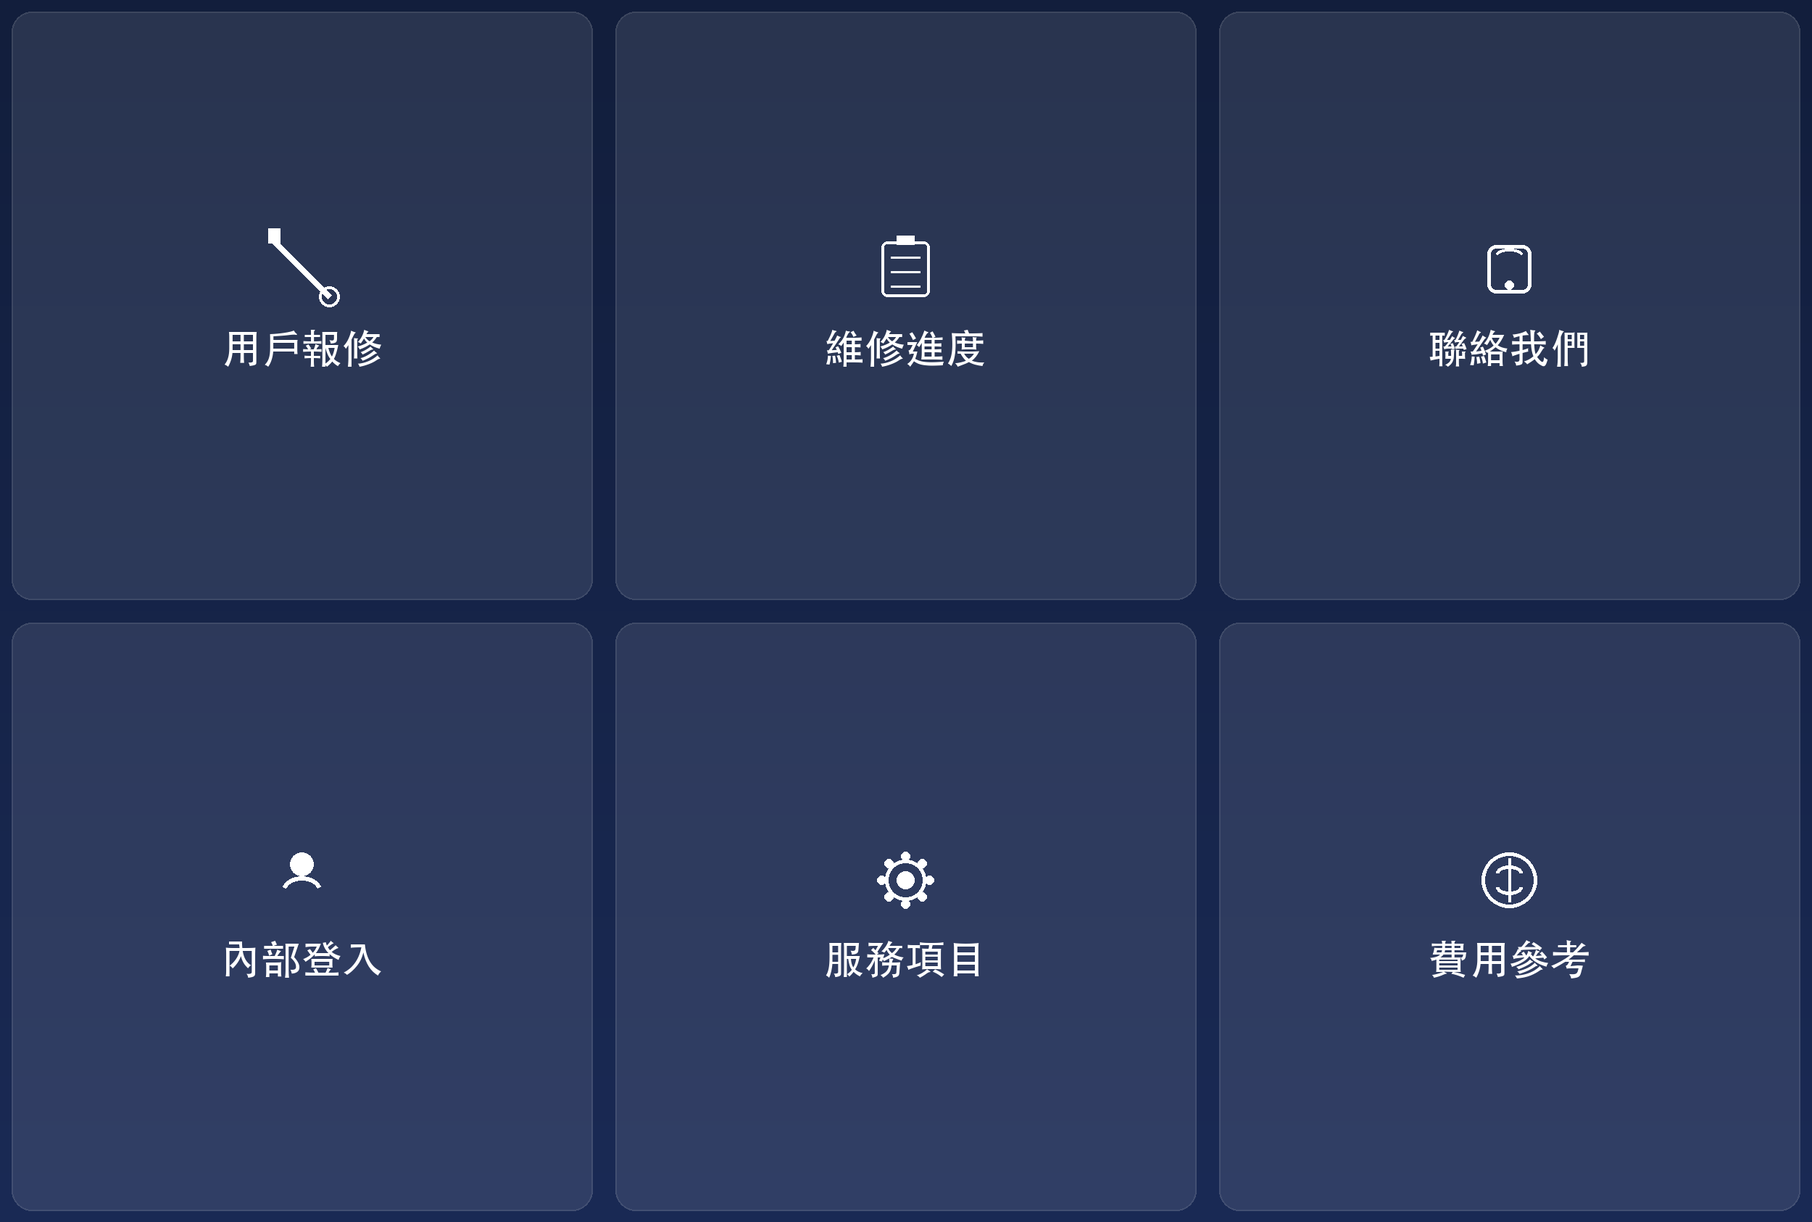
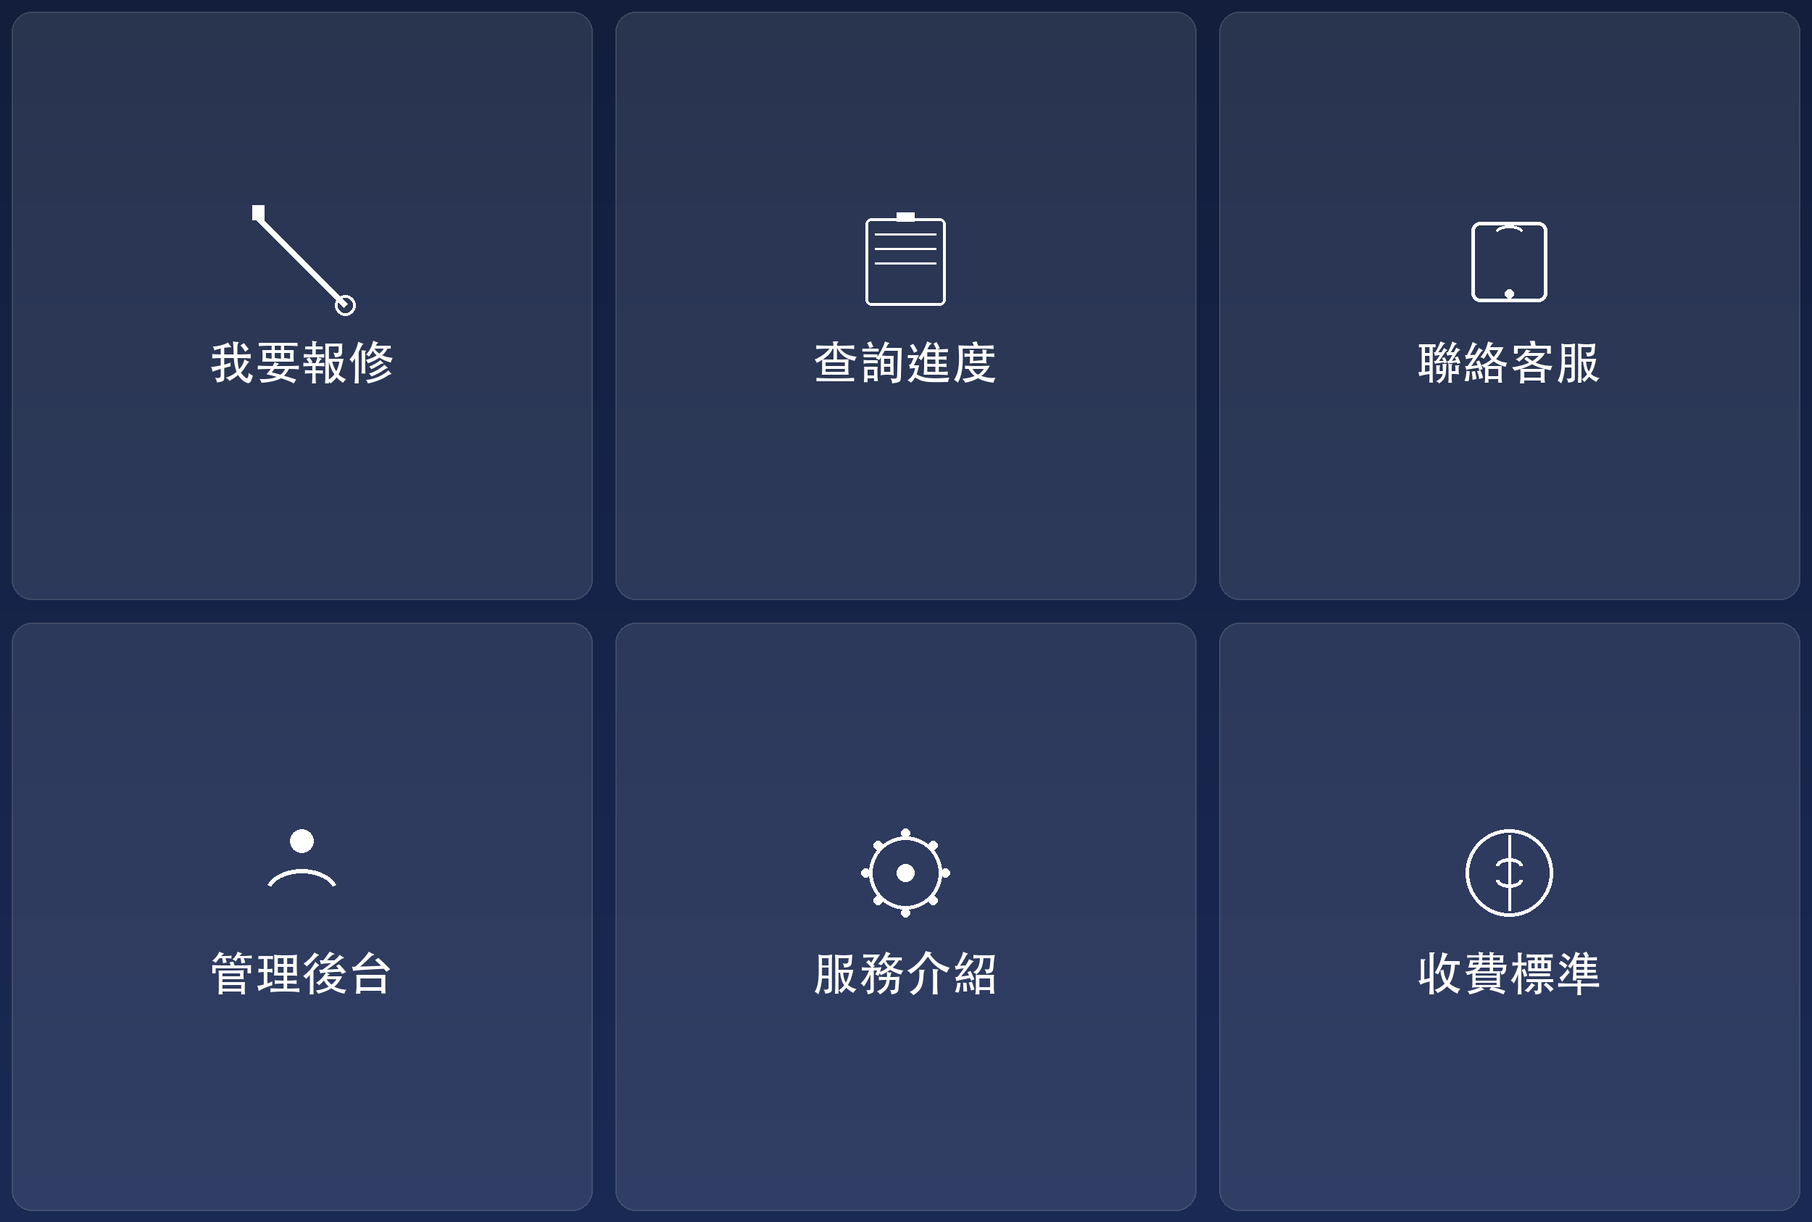
feat: 補件頁增強(照片管理) + Rich Menu 更新(放大icon+修正名稱)
- trackDetail API 加入 attachments 照片資料
- supplementTicket 改 POST + FormData，支援照片上傳/刪除
- 修正類別選項(冒氣→冷氣)、時段選項與報修表一致
- 補件表單加入照片管理：顯示/標記刪除/新增上傳
- 報修詳情頁顯示報修照片+完工照片
- Rich Menu icon 放大、名稱符合實際功能

diff --git a/my-project-frontend/src/TrackDetail.jsx b/my-project-frontend/src/TrackDetail.jsx
@@ -32,6 +32,9 @@ export default function TrackDetail() {
     const [editForm, setEditForm] = useState({})
     const [submitting, setSubmitting] = useState(false)
     const [submitted, setSubmitted] = useState(false)
+    // 照片管理
+    const [newPhotos, setNewPhotos] = useState([])
+    const [deletePhotoIds, setDeletePhotoIds] = useState([])
     // 時段選擇
     const [selectedSlot, setSelectedSlot] = useState('')
     const [timeConfirmed, setTimeConfirmed] = useState(false)
@@ -108,21 +111,33 @@ export default function TrackDetail() {
         }
     }
 
-    // 補件提交
+    // 補件提交（FormData — 支援檔案上傳）
     const handleSupplement = async () => {
         setSubmitting(true)
         try {
+            const formData = new FormData()
+            if (line_user_id) formData.append('line_user_id', line_user_id)
+            if (phone) formData.append('phone', phone)
+            if (ticketNo) formData.append('ticket_no', ticketNo)
+            Object.entries(editForm).forEach(([key, val]) => {
+                formData.append(key, typeof val === 'boolean' ? (val ? '1' : '0') : val)
+            })
+            // 要刪除的舊照片
+            if (deletePhotoIds.length > 0) {
+                formData.append('delete_attachment_ids', JSON.stringify(deletePhotoIds))
+            }
+            // 新上傳的照片
+            newPhotos.forEach(f => formData.append('attachments[]', f))
+
             const res = await fetch(
                 `${import.meta.env.VITE_API_URL}/api/tickets/track/${id}/supplement`,
-                {
-                    method: 'PATCH',
-                    headers: { 'Content-Type': 'application/json' },
-                    body: JSON.stringify({ line_user_id, phone, ticket_no: ticketNo, ...editForm }),
-                }
+                { method: 'POST', body: formData }
             )
             const data = await res.json()
             if (res.ok) {
                 setSubmitted(true)
+                setNewPhotos([])
+                setDeletePhotoIds([])
                 fetchDetail()
             } else {
                 alert(data.message || '補件失敗')
@@ -282,9 +297,9 @@ export default function TrackDetail() {
                         <div style={{ display: 'grid', gap: '12px' }}>
                             {[
                                 { key: 'customer_name', label: '姓名', type: 'text' },
-                                { key: 'category', label: '報修類別', type: 'select', options: ['水管', '電路', '冒氣', '熱水器', '其他'] },
+                                { key: 'category', label: '報修類別', type: 'select', options: ['水管', '電路', '冷氣', '熱水器', '其他'] },
                                 { key: 'address', label: '服務地址', type: 'text' },
-                                { key: 'preferred_time_slot', label: '偏好時段', type: 'select', options: ['上午 (9-12)', '下午 (13-17)', '晚上 (18-21)', '皆可'] },
+                                { key: 'preferred_time_slot', label: '偏好時段', type: 'select', options: ['上午（09:00-12:00）', '下午（13:00-17:00）', '晚上（18:00-21:00）', '週末皆可', '盡快處理'] },
                             ].map(field => (
                                 <div key={field.key}>
                                     <label style={{ color: 'rgba(255,255,255,0.5)', fontSize: '12px', display: 'block', marginBottom: '4px' }}>
@@ -330,6 +345,105 @@ export default function TrackDetail() {
                                 />
                                 🔴 緊急件
                             </label>
+
+                            {/* ===== 照片管理 ===== */}
+                            <div>
+                                <label style={{ color: 'rgba(255,255,255,0.5)', fontSize: '12px', display: 'block', marginBottom: '8px' }}>
+                                    📷 報修照片
+                                </label>
+                                {/* 現有照片 */}
+                                {ticket.attachments && ticket.attachments.filter(a => a.file_type !== 'completion').length > 0 && (
+                                    <div style={{ display: 'grid', gridTemplateColumns: 'repeat(3, 1fr)', gap: '8px', marginBottom: '12px' }}>
+                                        {ticket.attachments.filter(a => a.file_type !== 'completion').map(att => (
+                                            <div key={att.id} style={{ position: 'relative' }}>
+                                                <img
+                                                    src={att.file_url}
+                                                    alt={att.original_name}
+                                                    style={{
+                                                        width: '100%', height: '80px', objectFit: 'cover',
+                                                        borderRadius: '8px', cursor: 'pointer',
+                                                        opacity: deletePhotoIds.includes(att.id) ? 0.3 : 1,
+                                                        border: deletePhotoIds.includes(att.id) ? '2px solid #ef4444' : '1px solid rgba(255,255,255,0.1)',
+                                                    }}
+                                                    onClick={() => window.open(att.file_url, '_blank')}
+                                                />
+                                                <button
+                                                    type="button"
+                                                    onClick={() => setDeletePhotoIds(prev =>
+                                                        prev.includes(att.id)
+                                                            ? prev.filter(x => x !== att.id)
+                                                            : [...prev, att.id]
+                                                    )}
+                                                    style={{
+                                                        position: 'absolute', top: '4px', right: '4px',
+                                                        width: '22px', height: '22px', borderRadius: '50%',
+                                                        border: 'none', cursor: 'pointer', fontSize: '12px',
+                                                        background: deletePhotoIds.includes(att.id) ? '#10b981' : '#ef4444',
+                                                        color: '#fff', display: 'flex', alignItems: 'center', justifyContent: 'center',
+                                                    }}
+                                                >
+                                                    {deletePhotoIds.includes(att.id) ? '↩' : '✕'}
+                                                </button>
+                                            </div>
+                                        ))}
+                                    </div>
+                                )}
+                                {deletePhotoIds.length > 0 && (
+                                    <div style={{ color: '#fca5a5', fontSize: '12px', marginBottom: '8px' }}>
+                                        ⚠ 已標記 {deletePhotoIds.length} 張照片待刪除
+                                    </div>
+                                )}
+                                {/* 新增照片 */}
+                                <input
+                                    type="file"
+                                    accept="image/*"
+                                    multiple
+                                    onChange={e => setNewPhotos(prev => [...prev, ...Array.from(e.target.files)])}
+                                    style={{ display: 'none' }}
+                                    id="supplement-photos"
+                                />
+                                <label htmlFor="supplement-photos" style={{
+                                    display: 'flex', alignItems: 'center', justifyContent: 'center',
+                                    gap: '8px', padding: '12px', borderRadius: '10px',
+                                    border: '2px dashed rgba(255,255,255,0.2)', cursor: 'pointer',
+                                    color: 'rgba(255,255,255,0.5)', fontSize: '14px',
+                                    background: 'rgba(255,255,255,0.04)',
+                                }}>
+                                    📎 新增照片
+                                </label>
+                                {newPhotos.length > 0 && (
+                                    <div style={{ marginTop: '8px' }}>
+                                        <div style={{ color: 'rgba(255,255,255,0.5)', fontSize: '12px', marginBottom: '6px' }}>
+                                            新增 {newPhotos.length} 張照片：
+                                        </div>
+                                        <div style={{ display: 'grid', gridTemplateColumns: 'repeat(3, 1fr)', gap: '8px' }}>
+                                            {newPhotos.map((f, i) => (
+                                                <div key={i} style={{ position: 'relative' }}>
+                                                    <img
+                                                        src={URL.createObjectURL(f)}
+                                                        alt={f.name}
+                                                        style={{
+                                                            width: '100%', height: '80px', objectFit: 'cover',
+                                                            borderRadius: '8px', border: '1px solid rgba(59,130,246,0.3)',
+                                                        }}
+                                                    />
+                                                    <button
+                                                        type="button"
+                                                        onClick={() => setNewPhotos(prev => prev.filter((_, j) => j !== i))}
+                                                        style={{
+                                                            position: 'absolute', top: '4px', right: '4px',
+                                                            width: '22px', height: '22px', borderRadius: '50%',
+                                                            border: 'none', background: '#ef4444', color: '#fff',
+                                                            cursor: 'pointer', fontSize: '12px',
+                                                            display: 'flex', alignItems: 'center', justifyContent: 'center',
+                                                        }}
+                                                    >✕</button>
+                                                </div>
+                                            ))}
+                                        </div>
+                                    </div>
+                                )}
+                            </div>
                         </div>
 
                         <button
@@ -604,6 +718,50 @@ export default function TrackDetail() {
                             </div>
                         </div>
                     ))}
+
+                    {/* 報修照片 */}
+                    {ticket.attachments && ticket.attachments.filter(a => a.file_type !== 'completion').length > 0 && (
+                        <div style={{ paddingTop: '12px' }}>
+                            <div style={{ color: 'rgba(255,255,255,0.4)', fontSize: '12px', marginBottom: '8px' }}>📷 報修照片</div>
+                            <div style={{ display: 'grid', gridTemplateColumns: 'repeat(3, 1fr)', gap: '8px' }}>
+                                {ticket.attachments.filter(a => a.file_type !== 'completion').map(att => (
+                                    <img
+                                        key={att.id}
+                                        src={att.file_url}
+                                        alt={att.original_name}
+                                        style={{
+                                            width: '100%', height: '80px', objectFit: 'cover',
+                                            borderRadius: '8px', cursor: 'pointer',
+                                            border: '1px solid rgba(255,255,255,0.1)',
+                                        }}
+                                        onClick={() => window.open(att.file_url, '_blank')}
+                                    />
+                                ))}
+                            </div>
+                        </div>
+                    )}
+
+                    {/* 完工照片 */}
+                    {ticket.attachments && ticket.attachments.filter(a => a.file_type === 'completion').length > 0 && (
+                        <div style={{ paddingTop: '12px' }}>
+                            <div style={{ color: 'rgba(255,255,255,0.4)', fontSize: '12px', marginBottom: '8px' }}>✅ 完工照片</div>
+                            <div style={{ display: 'grid', gridTemplateColumns: 'repeat(3, 1fr)', gap: '8px' }}>
+                                {ticket.attachments.filter(a => a.file_type === 'completion').map(att => (
+                                    <img
+                                        key={att.id}
+                                        src={att.file_url}
+                                        alt={att.original_name}
+                                        style={{
+                                            width: '100%', height: '80px', objectFit: 'cover',
+                                            borderRadius: '8px', cursor: 'pointer',
+                                            border: '1px solid rgba(16,185,129,0.3)',
+                                        }}
+                                        onClick={() => window.open(att.file_url, '_blank')}
+                                    />
+                                ))}
+                            </div>
+                        </div>
+                    )}
                 </div>
 
                 {/* Timestamps */}

diff --git a/my-project/scripts/setup_rich_menu.php b/my-project/scripts/setup_rich_menu.php
@@ -48,32 +48,32 @@ $richMenu = [
         // 左上 - 用戶報修
         [
             'bounds' => ['x' => 0, 'y' => 0, 'width' => 833, 'height' => 843],
-            'action' => ['type' => 'uri', 'label' => '用戶報修', 'uri' => "$FRONTEND_URL/repair"],
+            'action' => ['type' => 'uri', 'label' => '我要報修', 'uri' => "$FRONTEND_URL/repair"],
         ],
         // 中上 - 維修進度
         [
             'bounds' => ['x' => 833, 'y' => 0, 'width' => 834, 'height' => 843],
-            'action' => ['type' => 'uri', 'label' => '維修進度', 'uri' => "$FRONTEND_URL/track"],
+            'action' => ['type' => 'uri', 'label' => '查詢進度', 'uri' => 'https://liff.line.me/2009132924-WkTGGJGC'],
         ],
         // 右上 - 聯絡我們
         [
             'bounds' => ['x' => 1667, 'y' => 0, 'width' => 833, 'height' => 843],
-            'action' => ['type' => 'uri', 'label' => '聯絡我們', 'uri' => "$FRONTEND_URL/contact"],
+            'action' => ['type' => 'uri', 'label' => '聯絡客服', 'uri' => "$FRONTEND_URL/contact"],
         ],
         // 左下 - 內部登入
         [
             'bounds' => ['x' => 0, 'y' => 843, 'width' => 833, 'height' => 843],
-            'action' => ['type' => 'uri', 'label' => '內部登入', 'uri' => "$FRONTEND_URL/login"],
+            'action' => ['type' => 'uri', 'label' => '管理後台', 'uri' => "$FRONTEND_URL/login"],
         ],
         // 中下 - 服務項目
         [
             'bounds' => ['x' => 833, 'y' => 843, 'width' => 834, 'height' => 843],
-            'action' => ['type' => 'uri', 'label' => '服務項目', 'uri' => "$FRONTEND_URL/services"],
+            'action' => ['type' => 'uri', 'label' => '服務介紹', 'uri' => "$FRONTEND_URL/services"],
         ],
         // 右下 - 費用參考
         [
             'bounds' => ['x' => 1667, 'y' => 843, 'width' => 833, 'height' => 843],
-            'action' => ['type' => 'uri', 'label' => '費用參考', 'uri' => "$FRONTEND_URL/pricing"],
+            'action' => ['type' => 'uri', 'label' => '收費標準', 'uri' => "$FRONTEND_URL/pricing"],
         ],
     ],
 ];

diff --git a/my-project/app/Http/Controllers/Api/TicketController.php b/my-project/app/Http/Controllers/Api/TicketController.php
@@ -880,6 +880,18 @@ class TicketController extends Controller
             'updated_at' => $ticket->updated_at,
         ];
 
+        // 附件照片（含完整 URL）
+        $ticket->load('attachments');
+        $ticketData['attachments'] = $ticket->attachments->map(function ($att) {
+            return [
+                'id' => $att->id,
+                'file_path' => $att->file_path,
+                'file_url' => url('storage/' . $att->file_path),
+                'file_type' => $att->file_type,
+                'original_name' => $att->original_name,
+            ];
+        })->toArray();
+
         // 待補件時回傳完整可編輯資料（不遮罩）
         if ($ticket->status === 'need_more_info') {
             $ticketData['editable'] = true;
@@ -943,6 +955,32 @@ class TicketController extends Controller
         foreach ($updatable as $field) {
             if ($request->has($field)) {
                 $ticket->{$field} = $request->input($field);
+            }
+        }
+
+        // 處理刪除舊照片
+        if ($request->has('delete_attachment_ids')) {
+            $deleteIds = $request->input('delete_attachment_ids');
+            if (is_string($deleteIds)) {
+                $deleteIds = json_decode($deleteIds, true) ?? [];
+            }
+            if (!empty($deleteIds)) {
+                $ticket->attachments()->whereIn('id', $deleteIds)->each(function ($att) {
+                    \Storage::disk('public')->delete($att->file_path);
+                    $att->delete();
+                });
+            }
+        }
+
+        // 處理新圖片上傳
+        if ($request->hasFile('attachments')) {
+            foreach ($request->file('attachments') as $file) {
+                $path = $file->store('ticket-attachments', 'public');
+                $ticket->attachments()->create([
+                    'file_path' => $path,
+                    'file_type' => 'photo',
+                    'original_name' => $file->getClientOriginalName(),
+                ]);
             }
         }
 

diff --git a/my-project/scripts/generate_rich_menu_image.py b/my-project/scripts/generate_rich_menu_image.py
@@ -12,20 +12,19 @@ WHITE = (255, 255, 255)
 DIM = (255, 255, 255, 180)
 
 cells = [
-    "用戶報修",   # 扳手
-    "維修進度",   # 清單
-    "聯絡我們",   # 電話
-    "內部登入",   # 人像
-    "服務項目",   # 齒輪
-    "費用參考",   # 錢幣
+    "我要報修",   # 扳手
+    "查詢進度",   # 清單
+    "聯絡客服",   # 電話
+    "管理後台",   # 人像
+    "服務介紹",   # 齒輪
+    "收費標準",   # 錢幣
 ]
 
 # 字體
-font = None
 for fp in ["/System/Library/Fonts/PingFang.ttc", "/System/Library/Fonts/STHeiti Medium.ttc"]:
     if os.path.exists(fp):
         try:
-            font = ImageFont.truetype(fp, 56)
+            font = ImageFont.truetype(fp, 64)
             break
         except:
             continue
@@ -104,14 +103,14 @@ for idx, label in enumerate(cells):
     img = Image.alpha_composite(img, overlay)
     draw = ImageDraw.Draw(img)
 
-    # icon (在上方)
-    iy = cy - 50
-    icon_funcs[idx](draw, cx, iy, 38)
+    # icon (在上方，加大)
+    iy = cy - 60
+    icon_funcs[idx](draw, cx, iy, 60)
 
     # 文字 (在下方)
     bbox = draw.textbbox((0, 0), label, font=font)
     tw = bbox[2] - bbox[0]
-    draw.text((cx - tw // 2, cy + 30), label, fill=WHITE, font=font)
+    draw.text((cx - tw // 2, cy + 45), label, fill=WHITE, font=font)
 
 out = img.convert('RGB')
 path = os.path.join(os.path.dirname(__file__), '..', 'storage', 'rich_menu.png')
